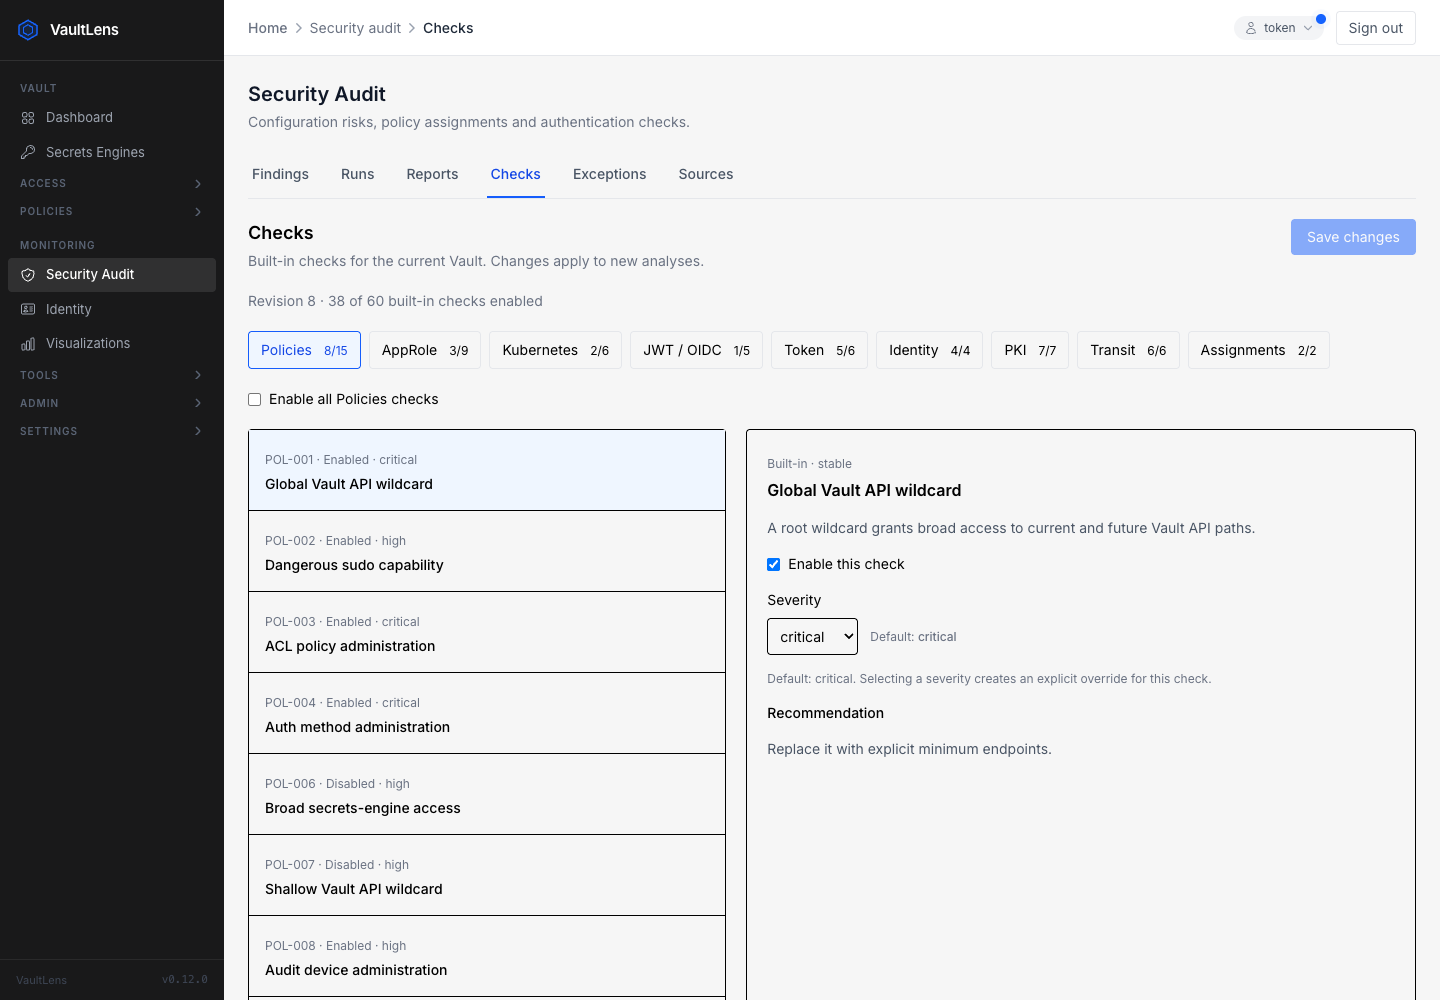
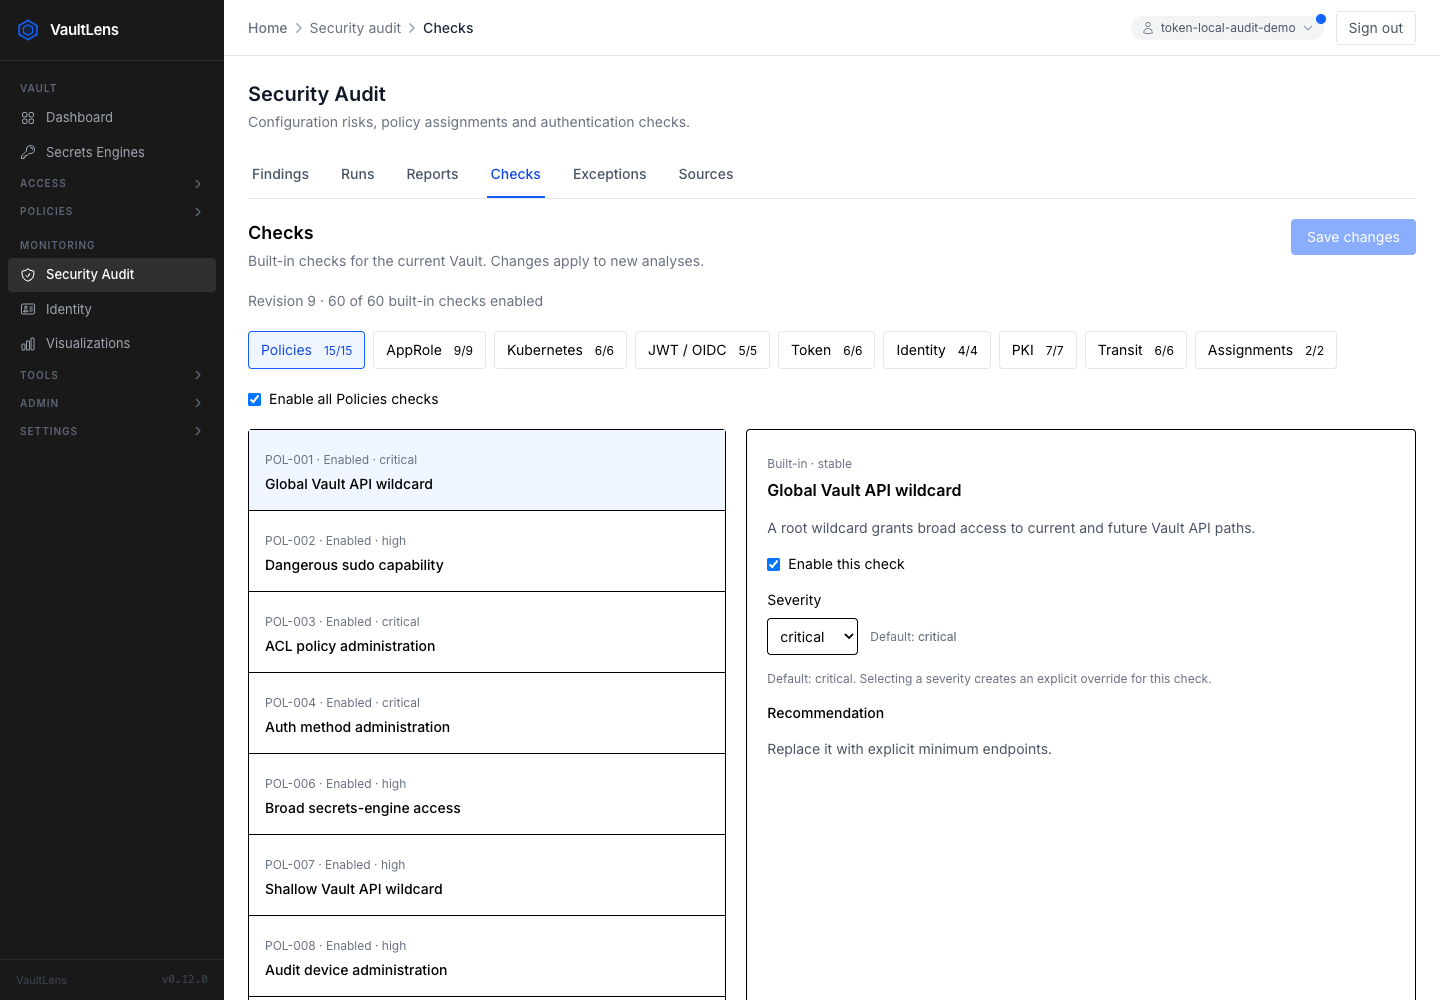
docs(audit): refresh workspace screenshots and operational guidance

diff --git a/app/eslint.config.js b/app/eslint.config.js
@@ -42,6 +42,8 @@ export default [
         // DOM types
         HTMLElement: 'readonly',
         HTMLInputElement: 'readonly',
+        HTMLButtonElement: 'readonly',
+        PointerEvent: 'readonly',
         HTMLImageElement: 'readonly',
         HTMLDivElement: 'readonly',
         HTMLDialogElement: 'readonly',

diff --git a/docs/architecture/security-audit.md b/docs/architecture/security-audit.md
@@ -55,9 +55,12 @@ new credentials; checkpoints do not contain credentials.
 
 ## Data model and persistence
 
-SQLite stores each snapshot and findings as JSON in `audit_runs`; this keeps the
-initial dependency footprint small. Settings are immutable revisions in
-`audit_settings`. Exact exceptions are target-scoped in `audit_object_exceptions`.
+SQLite stores immutable source payloads in `audit_snapshots`, the per-target
+current snapshot pointer in `audit_inventory`, and analysis results/configuration
+in `audit_runs`. Existing run payloads are migrated without rewriting history.
+Settings are immutable revisions in `audit_settings`; typed exceptions and their
+enabled states are target-scoped in `audit_object_exceptions`. `audit_retention`
+stores the per-connection opt-in cleanup setting.
 A run records its target, timestamps, state, counts, configuration, fingerprint,
 engine version and coverage. Snapshot resources carry namespace and observation
 time; refresh may add retained-from metadata.
@@ -65,8 +68,17 @@ time; refresh may add retained-from metadata.
 Configuration is captured at dispatch. The worker uses that revision rather than
 rereading mutable settings mid-run. Settings writes compare revisions in an
 immediate transaction. Run deletion validates every selected target-scoped ID
-before deleting any; source/child runs are independent snapshots and deletion
-does not cascade. The database is local storage, not a distributed job queue.
+before deleting any. Run deletion never cascades to snapshots or current inventory.
+Enabled retention keeps the latest 100 terminal runs, preserving running jobs;
+snapshot retention is unlimited. Snapshot publication and inventory advancement
+use an atomic transaction with a parent-pointer concurrency check. Partial reads
+retain previous observations; deletion is inferred only within completed selected
+stages and filters. The database is local storage, not a distributed job queue.
+
+Target isolation currently uses the configured Vault URL, not a cluster ID or
+credential profile. Deploy separate databases for distinct security boundaries.
+Manual workers can continue after a browser closes, but scheduled collection and
+persistent unattended credentials are not implemented.
 
 ## Coverage and evidence
 
@@ -86,7 +98,7 @@ issues instead of a clean result.
 
 Analysis produces findings first; exceptions annotate/suppress them for reporting
 without deleting the original evidence. A baseline is a CLI/API compatibility
-feature; the web workflow centers on exact object exceptions. Historical findings
+feature; the web workflow supports typed exact/glob object exceptions. Historical findings
 remain unchanged after editing settings or exceptions.
 
 ## Adding a check
@@ -117,3 +129,11 @@ before large-inventory deployments; server-side finding pagination and dedicated
 export jobs are natural follow-ups. One server owns each database. Report access
 is shared among existing VaultLens administrators, not scoped to the collecting
 user. Keep this boundary explicit when deploying across namespaces.
+
+## Temporary authentication failures
+
+The client preserves session state for throttling and temporary failures and
+respects Retry-After. Audit polling uses slower idle intervals and shares a
+cooldown rather than immediately repeating requests. Backend Vault authorization
+failures still invalidate the session; Vault throttling and outages retain their
+transient HTTP status. This does not extend an expired Vault token.

diff --git a/docs/features/security-audit.md b/docs/features/security-audit.md
@@ -33,12 +33,12 @@ services retain their existing behavior if you configure their credentials.
 
 | Tab | Workflow |
 | --- | --- |
-| Findings | Choose a Run, search/filter findings and group by check or object. Check groups split by actual severity and sort critical first. Expand a finding for its reason, matched HCL block, policy assignments, technical evidence and recommendation. |
-| Runs | Select runs, compare two compatible results, or delete selected finished runs. Info shows collection parameters, coverage, metrics and saved configuration. Reanalyze snapshot creates a new run using current saved checks and exceptions without fetching Vault data. |
+| Findings | Use Change run to select an analyzed result, search/filter findings and group by check or object. Check groups split by actual severity and sort critical first. Expand a finding for its reason, matched HCL block, policy assignments, technical evidence and recommendation. |
+| Runs | Use Show to open findings, select runs to compare two compatible results, or delete selected finished runs. Info shows collection parameters, coverage, metrics and saved configuration. Reanalyze snapshot creates a new run using current saved checks and exceptions without fetching Vault data. |
 | Reports | Select a saved run and download JSON, JSONL, YAML, CSV or a complete ZIP report. |
 | Checks | Enable built-in checks, change severity, and edit supported parameters. Default severity remains visible. Save the draft before collecting or reanalyzing. |
 | Exceptions | Manage a searchable exception table with per-row enable switches, object types, exact/glob paths, owner, reason and expiry. A finding also offers Exclude this object. |
-| Sources | Refresh selected sources from an existing native snapshot, or import a compatible Python SQLite snapshot. |
+| Sources | Update current inventory with scoped collection, browse immutable snapshots and update history, analyze saved snapshots, and configure run cleanup. |
 
 Only the latest 100 runs appear in the run list. Findings and assignments have
 client-side pagination; a run's detail is still loaded as one snapshot. Object

diff --git a/docs/development/security-audit.md b/docs/development/security-audit.md
@@ -61,12 +61,18 @@ administrator authorization. Mutations use the application's CSRF middleware.
 | GET `/runs/:id/export` | JSON, JSONL, YAML, CSV or ZIP |
 | GET `/runs/:id/baseline` | Native baseline definition |
 | GET `/diff?old=…&new=…` | Strictly compatible run comparison |
-| GET/POST `/exceptions` | List/create exact object exceptions |
+| GET/POST `/exceptions` | List/create typed exact/glob object exceptions |
 | PUT/DELETE `/exceptions/:id` | Edit/delete an exception |
+| PATCH `/exceptions/:id/enabled` | Enable/disable an exception; reject unsupported token presets or expired entries |
+| GET `/inventory` | Current inventory, storage location and recent snapshots |
+| GET `/snapshots/:id` | Immutable source snapshot |
+| GET/PUT `/retention` | Read/update per-target cleanup with boolean `enabled` |
 | POST `/imports/python` | Bounded SQLite import, schemas 2/3 |
 
 POST `/runs` accepts collectionOptions for a fresh collection, or exactly one of
-sourceRunId (reanalyze), resumeRunId, refreshRunId. Refresh reuses saved scope and
+sourceRunId or sourceSnapshotId (reanalyze), resumeRunId, refreshRunId.
+Set collectOnly to store a source snapshot without analysis. Refresh reuses saved scope and
 accepts refreshSources. The response is 202 with `{id}`. Concurrent runs receive
-409. Imported observations are analyzed with native rules; historical Python
+409. The web UI no longer exposes legacy Python import; the endpoint and CLI
+compatibility remain. Imported observations are analyzed with native rules; historical Python
 findings are not presented as native findings.
